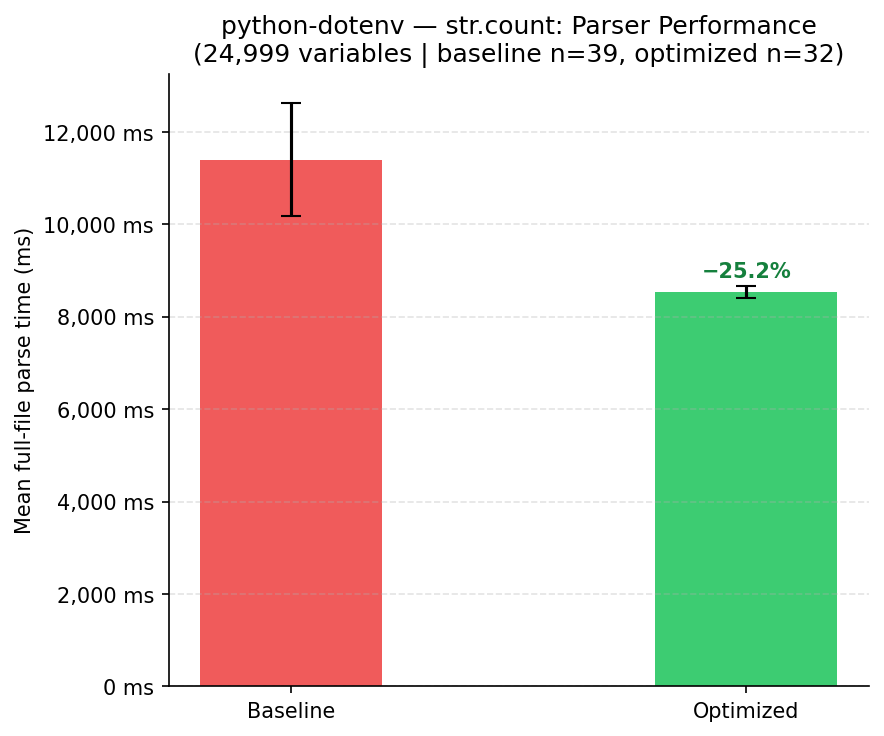
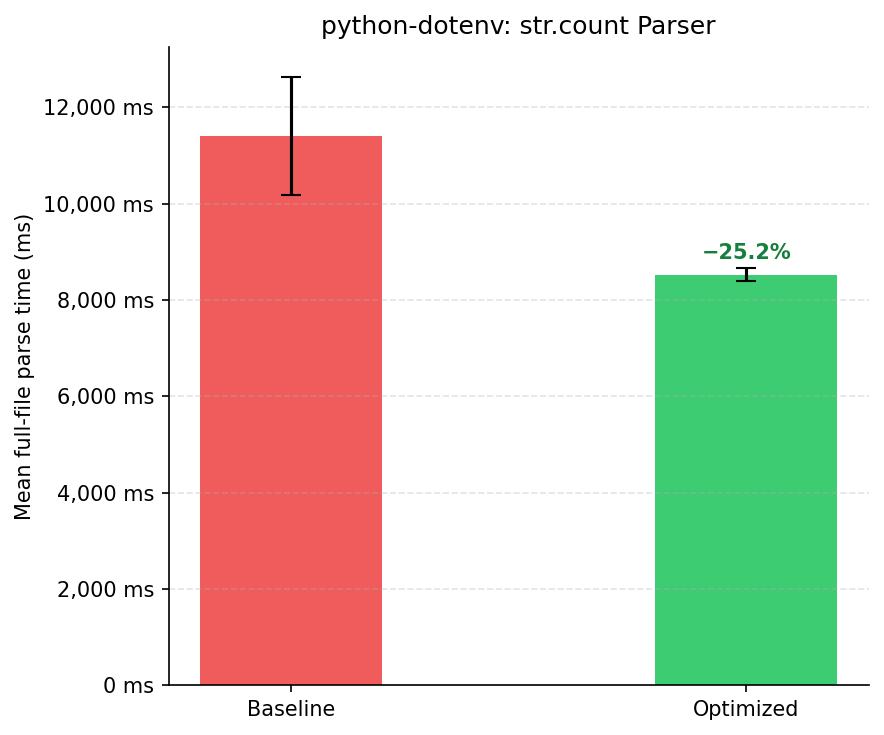
docs: simplify chart titles to 'Project: Optimization Name' format

diff --git a/analysis/generate_plots.py b/analysis/generate_plots.py
@@ -90,7 +90,7 @@ def plot_tinydb_bloom_filter() -> None:
     ax.set_xticklabels([f"{lbl} docs" for lbl in labels])
     ax.set_xlabel("Dataset size")
     ax.set_ylabel("Mean time per 100 negative lookups (ms, log scale)")
-    ax.set_title("TinyDB — Bloom Filter: Negative Lookup Performance\n(100 absent doc_id lookups per run, JSONStorage)")
+    ax.set_title("TinyDB: Bloom Filter")
     ax.legend()
     fig.tight_layout()
     save(fig, "tinydb", "tinydb_bloom_filter_comparison.png")
@@ -129,7 +129,7 @@ def plot_tinydb_btree() -> None:
     ax.set_xticklabels([f"{lbl} docs" for lbl in labels])
     ax.set_xlabel("Dataset size")
     ax.set_ylabel("Mean time per 100 equality queries (ms)")
-    ax.set_title("TinyDB — B-Tree Index: Equality Search Performance\n(100 search(Query().field == value) per run, JSONStorage)")
+    ax.set_title("TinyDB: B-Tree Index")
     ax.legend()
     fig.tight_layout()
     save(fig, "tinydb", "tinydb_btree_comparison.png")
@@ -178,8 +178,7 @@ def _plot_chainmap(json_path: str, title: str, out_name: str) -> None:
 def plot_chainmap_no_interp() -> None:
     _plot_chainmap(
         os.path.join(RESULTS_DIR, "python-dotenv", "result_no_interpolation_dotenv_chainmap.json"),
-        "python-dotenv — ChainMap: Load Performance (interpolation disabled)\n"
-        "dotenv_values() — 50 runs per scale, 30 scale points",
+        "python-dotenv: ChainMap (no interpolation)",
         "dotenv_chainmap_no_interpolation.png",
     )
 
@@ -190,8 +189,7 @@ def plot_chainmap_no_interp() -> None:
 def plot_chainmap_interp() -> None:
     _plot_chainmap(
         os.path.join(RESULTS_DIR, "python-dotenv", "result_interpolation_dotenv_chainmap.json"),
-        "python-dotenv — ChainMap: Load Performance (interpolation enabled)\n"
-        "dotenv_values() — 50 runs per scale, 30 scale points",
+        "python-dotenv: ChainMap (with interpolation)",
         "dotenv_chainmap_interpolation.png",
     )
 
@@ -217,9 +215,7 @@ def plot_str_count() -> None:
 
     ax.yaxis.set_major_formatter(ticker.FuncFormatter(lambda v, _: f"{v:,.0f} ms"))
     ax.set_ylabel("Mean full-file parse time (ms)")
-    ax.set_title("python-dotenv — str.count: Parser Performance\n"
-                 f"(24,999 variables | baseline n={data['baseline']['runs']}, "
-                 f"optimized n={data['optimized']['runs']})")
+    ax.set_title("python-dotenv: str.count Parser")
     fig.tight_layout()
     save(fig, "python-dotenv", "dotenv_str_count_newline.png")
 
@@ -252,8 +248,7 @@ def _plot_whoosh_simple(json_path: str, title: str, ylabel: str, out_subdir: str
 
     ax.yaxis.set_major_formatter(ticker.FuncFormatter(lambda v, _: f"{v:,.2f} ms"))
     ax.set_ylabel(ylabel)
-    note = "(* difference < baseline std dev — improvement objective but not confirmed by strict criterion)" if not confirmed else ""
-    ax.set_title(f"{title}\n(baseline n={b_runs}, optimized n={o_runs}){chr(10)+note if note else ''}", fontsize=9.5)
+    ax.set_title(title)
     fig.tight_layout()
     save(fig, out_subdir, out_name)
 
@@ -264,8 +259,7 @@ def _plot_whoosh_simple(json_path: str, title: str, ylabel: str, out_subdir: str
 def plot_whoosh_skip_lists() -> None:
     _plot_whoosh_simple(
         os.path.join(RESULTS_DIR, "whoosh-reloaded", "result_whoosh-reloaded_skip-lists.json"),
-        "whoosh-reloaded — Skip Lists: AND Intersection Performance\n"
-        "(500k docs, 100 AND query pairs per run)",
+        "Whoosh-Reloaded: Skip Lists",
         "Mean time per run (ms)",
         "whoosh-reloaded",
         "whoosh_skip_lists_comparison.png",
@@ -278,8 +272,7 @@ def plot_whoosh_skip_lists() -> None:
 def plot_whoosh_bloom_filter() -> None:
     _plot_whoosh_simple(
         os.path.join(RESULTS_DIR, "whoosh-reloaded", "result_whoosh-reloaded_bloom-filter.json"),
-        "whoosh-reloaded — Bloom Filter: Negative Term Lookup Performance\n"
-        "(500k docs, 1,000 absent-term queries per run)",
+        "Whoosh-Reloaded: Bloom Filter",
         "Mean time per 1,000 absent queries (ms)",
         "whoosh-reloaded",
         "whoosh_bloom_filter_comparison.png",
@@ -292,8 +285,7 @@ def plot_whoosh_bloom_filter() -> None:
 def plot_whoosh_ngrams() -> None:
     _plot_whoosh_simple(
         os.path.join(RESULTS_DIR, "whoosh-reloaded", "result_whoosh-reloaded_ngrams.json"),
-        "whoosh-reloaded — N-gram Index: Prefix-less Wildcard Performance\n"
-        "(30k docs, 40 wildcard queries per run: *ados, *ritmo*, *logia, *graf*)",
+        "Whoosh-Reloaded: N-Grams Index",
         "Mean time per run (ms)",
         "whoosh-reloaded",
         "whoosh_ngrams_comparison.png",
